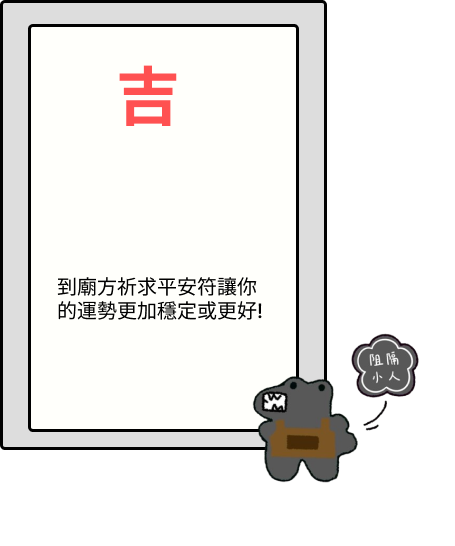
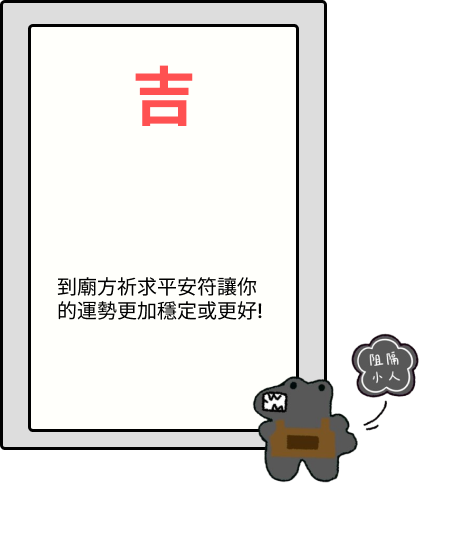
修改 - 圖片跑版、字體調整

Changed region(s): [[0.2462, 0.0934, 0.4308, 0.2491]]

diff --git a/style.css b/style.css
@@ -37,6 +37,7 @@ header .logo_img {
 }
 
 h3 {
+    font-size: 2.5vh;
     font-weight: 700;
 }
 
@@ -190,6 +191,6 @@ footer {
     }
     
     .copyright {
-        font-size: 20px;
+        font-size: 4vw;
     }
 }
